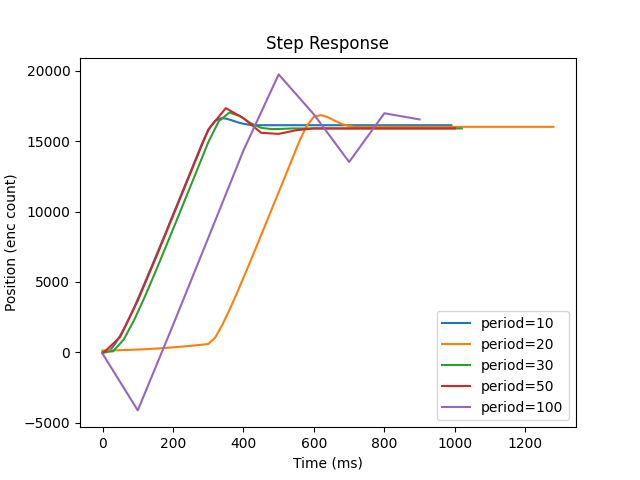
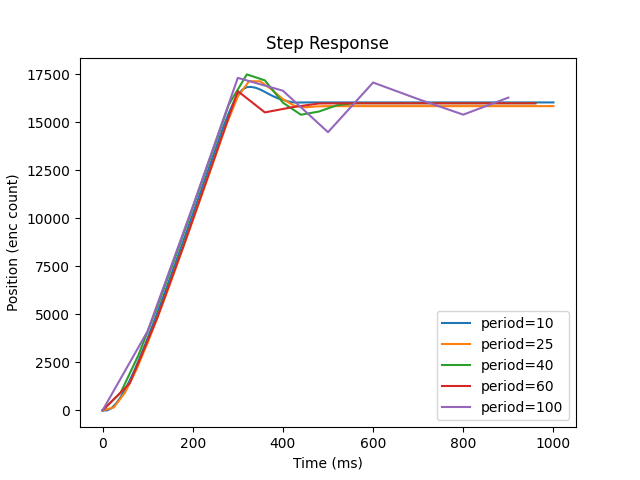
DA BIG CHANGE

diff --git a/src/main.py b/src/main.py
@@ -58,22 +58,29 @@ def task1_fun(shares):
     :param shares:
     :return:
     """
-    kp, setpoint, data = shares
+    kp, setpoint, data, reset = shares
 
     # Create the motor and motor encoder objects
     m0 = MotorDriver(pyb.Pin.board.PA10, pyb.Pin.board.PB4, pyb.Pin.board.PB5, 3)
     enc0 = EncoderReader(pyb.Pin.board.PB6, pyb.Pin.board.PB7, 4)
-    con = Control(kp.get(), setpoint.get(), initial_output=0)
 
     while True:
-        con.set_setpoint(setpoint.get())
-        con.set_Kp(kp.get())
+        con = Control(kp.get(), setpoint.get(), initial_output=0)
 
-        measured_output = -enc0.read()
-        motor_actuation = con.run(setpoint.get(), measured_output)
-        m0.set_duty_cycle(motor_actuation)
+        while reset.get() == 0:
+            con.set_setpoint(setpoint.get())
+            con.set_Kp(kp.get())
 
-        data.put(measured_output)
+            measured_output = -enc0.read()
+            motor_actuation = con.run(setpoint.get(), measured_output)
+            m0.set_duty_cycle(motor_actuation)
+
+            data.put(measured_output)
+            yield 0
+
+        # Reset
+        enc0.zero()
+        m0.set_duty_cycle(0)
         yield 0
 
 
@@ -83,22 +90,29 @@ def task2_fun(shares):
     :param shares:
     :return:
     """
-    kp, setpoint, data = shares
+    kp, setpoint, data, reset = shares
 
     # Create the motor and motor encoder objects
-    m1 = MotorDriver(pyb.Pin.board.PC1, pyb.Pin.board.PA0, pyb.Pin.board.PA1, 5)
     enc1 = EncoderReader(pyb.Pin.board.PC6, pyb.Pin.board.PC7, 8)
-    con = Control(kp.get(), setpoint.get(), initial_output=0)
+    m1 = MotorDriver(pyb.Pin.board.PC1, pyb.Pin.board.PA0, pyb.Pin.board.PA1, 5)
 
     while True:
-        con.set_setpoint(setpoint.get())
-        con.set_Kp(kp.get())
+        con = Control(kp.get(), setpoint.get(), initial_output=0)
 
-        measured_output = -enc1.read()
-        motor_actuation = con.run(setpoint.get(), measured_output)
-        m1.set_duty_cycle(motor_actuation)
+        while reset.get() == 0:
+            con.set_setpoint(setpoint.get())
+            con.set_Kp(kp.get())
 
-        data.put(measured_output)
+            measured_output = -enc1.read()
+            motor_actuation = con.run(setpoint.get(), measured_output)
+            m1.set_duty_cycle(motor_actuation)
+
+            data.put(measured_output)
+            yield 0
+
+        # Reset
+        enc1.zero()
+        m1.set_duty_cycle(0)
         yield 0
 
 # This code creates a share, a queue, and two tasks, then starts the tasks. The
@@ -111,6 +125,8 @@ if __name__ == "__main__":
     # Create a share and a queue to test function and diagnostic printouts
     m0Kp = task_share.Share('f', thread_protect=False, name="m0 kp")
     m1Kp = task_share.Share('f', thread_protect=False, name="m1 kp")
+
+    reset = task_share.Share('b', thread_protect=False, name="reset")
 
     m0setpoint = task_share.Share('l', thread_protect=False,
                                   name="m0 setpoint")
@@ -132,12 +148,12 @@ if __name__ == "__main__":
     m0Task = cotask.Task(task1_fun, name="Motor 0 Driver", priority=1,
                          period=10,
                          profile=True, trace=False,
-                         shares=(m0Kp, m0setpoint, m0Data))
+                         shares=(m0Kp, m0setpoint, m0Data, reset))
 
     m1Task = cotask.Task(task2_fun, name="Motor 1 Driver", priority=1,
                          period=10,
                          profile=True, trace=False,
-                         shares=(m1Kp, m1setpoint, m1Data))
+                         shares=(m1Kp, m1setpoint, m1Data, reset))
 
     task_list.append(m0Task)
     task_list.append(m1Task)
@@ -181,6 +197,13 @@ if __name__ == "__main__":
         for _ in range(m1Data.num_in()):
             print(m1Data.get())
         print("$i End Data")
+
+        reset.put(1)
+        s = utime.ticks_ms()
+        while utime.ticks_ms() - s < 1000:
+            task_list.pri_sched()
+
+        reset.put(0)
 
     # Print a table of task data and a table of shared information data
     print('\n' + str(cotask.task_list))

diff --git a/src/plot.py b/src/plot.py
@@ -45,19 +45,9 @@ def init_board(ser):
     s.reset_input_buffer()
 
     # Reset board
+    # Reset boardd
     write_ctrl_d(s)
     print("INIT FINISHED")
-
-def process_response(period, ):
-    """!
-    Takes the lines from the passed csv file and readies it for plotting
-    :param csv_lines: The passed through file to be plotted.
-    :return: The x and y values to be plotted
-    """
-    x = [float(l.split(",")[0].strip()) for l in csv_lines]
-    y = [float(l.split(",")[1].strip()) for l in csv_lines]
-
-    return x, y
 
 def write(ser, val):
     ser.write(bytes(f"{val}\r\n", 'ascii'))
@@ -119,13 +109,12 @@ def plot_period_tests(s, periods):
     sp = 16000
     for p in periods:
         m0, m1 = run_step_response(s, (.05, 0), (sp, 0), p)
-        m0 = [int(m) - sp+16000 if -4294967 < int(m) < 4294967 else 0 for m in m0]
+        m0 = [int(m) if -4294967 < int(m) < 4294967 else 0 for m in m0]
         print(m0)
 
         t = list(range(0, len(m0)*p, p))
 
         plt.plot(t, m0, label=f"period={p}")
-        sp += 16000
         #time.sleep(1)
 
     plt.legend(loc='lower right')
@@ -135,32 +124,18 @@ def plot_period_tests(s, periods):
     plt.savefig("periods.png")
     plt.show()
 
-def plot_position_tests(s, m0_poss, m1_poss, per):
+def position_tests(s, m0_poss, m1_poss, per):
     m0_tot = []
     m1_tot = []
     for p in zip(m0_poss, m1_poss):
-        m0, m1 = run_step_response(s, (.05, 0), (16000, 0), per)
+        m0, m1 = run_step_response(s, (.05, .05), p, per)
         m0, m1 = [int(m) for m in m0], [int(m) for m in m1]
 
         m0_tot.append(m0)
         m1_tot.append(m1)
 
-    t = list(range(0, len(m0_tot)*p, p))
-
-    plt.plot(t, m0_tot, label=f"Motor 0")
-    plt.plot(t, m1_tot, label=f"Motor 1")
-
-    plt.legend(loc='lower right')
-    plt.xlabel("Time (ms)")
-    plt.ylabel("Position (enc count)")
-    plt.title("Step Response")
-    plt.savefig("positions.png")
-    plt.show()
-
 # Sets the serial channel and baud rate of the connection
-with serial.Serial('COM3', baudrate=115200) as s:
+with serial.Serial('COM5', baudrate=115200) as s:
     init_board(s)
 
-    plot_period_tests(s, [10, 20, 30, 50, 100])
-
-    #plot_position_tests([16000, -16000, 0], [-16000, 16000, 0], 10)
+    plot_period_tests(s, [10, 25, 40, 60, 100])
